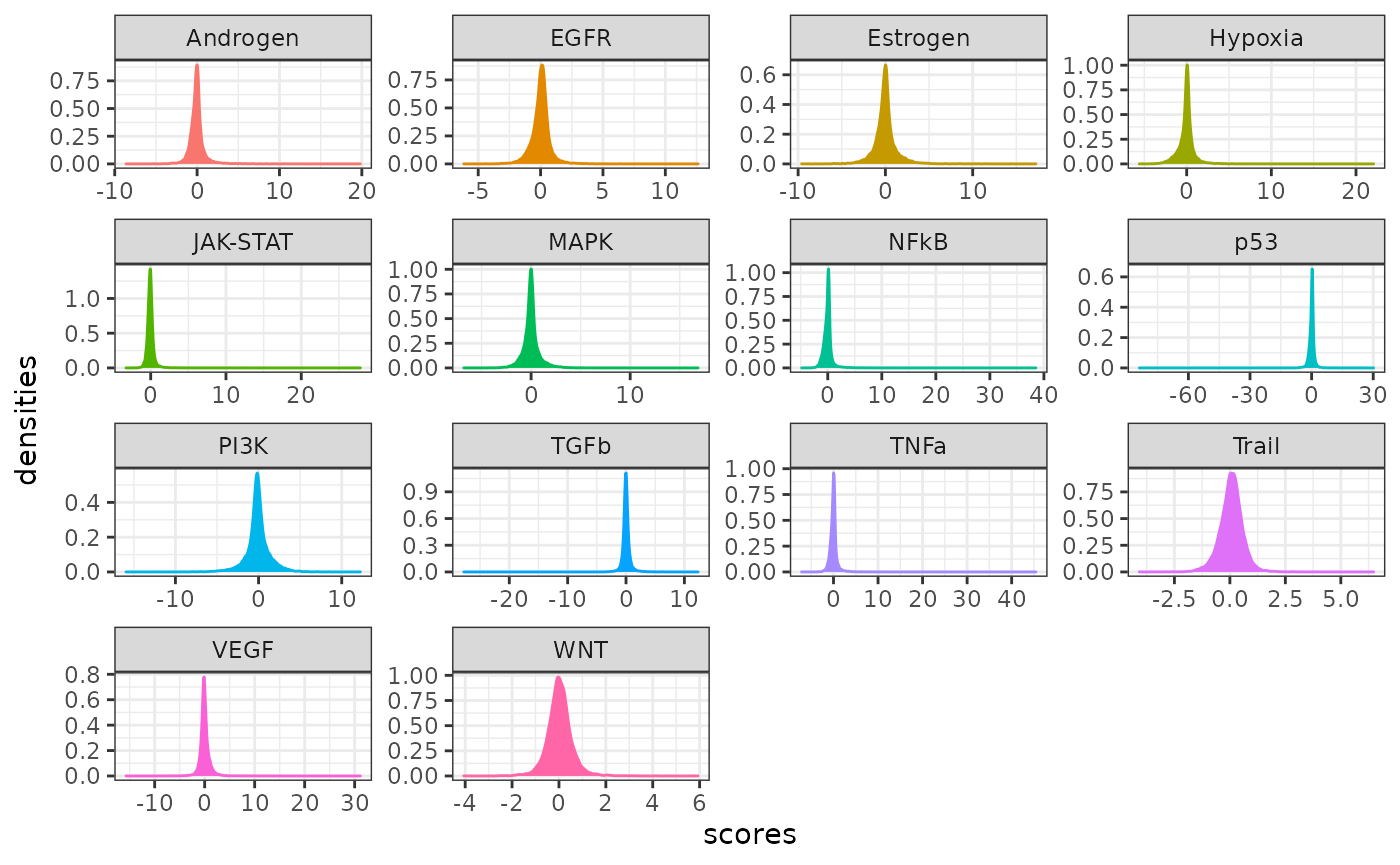
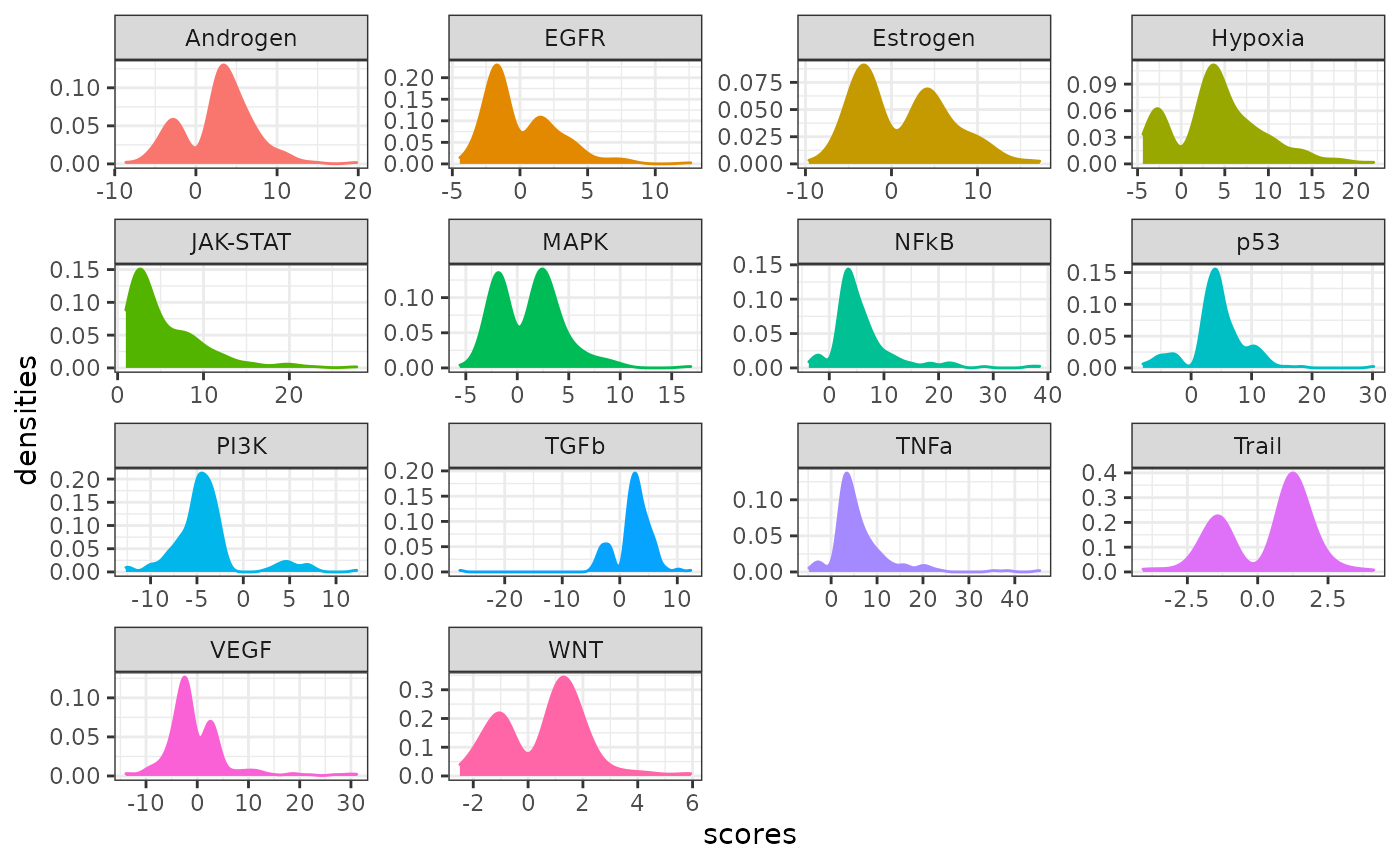
Updated docs

diff --git a/docs/articles/progeny.html b/docs/articles/progeny.html
@@ -133,7 +133,11 @@
 <li>
 <strong>WNT</strong>: regulates organ morphogenesis during development and tissue repair.</li>
 </ul>
-<p>These, coupled with any statistical method, can be used to infer pathway activities from bulk or single-cell transcriptomics. In this vignette we show how to access these signatures and some of their properties. To infer pathway activities, please check out <a href="https://doi.org/10.1093/bioadv/vbac016" class="external-link">decoupleR</a>, available in <a href="https://saezlab.github.io/decoupleR/" class="external-link">R</a> or <a href="https://github.com/saezlab/decoupler-py" class="external-link">python</a>.</p>
+</div>
+<div class="section level2">
+<h2 id="activity-estimation">Activity estimation<a class="anchor" aria-label="anchor" href="#activity-estimation"></a>
+</h2>
+<p>These signatures, coupled with any statistical method, can be used to infer pathway activities from bulk or single-cell transcriptomics. In this vignette we just show how to access these signatures and some of their properties. To infer pathway activities, please check out <a href="https://doi.org/10.1093/bioadv/vbac016" class="external-link">decoupleR</a>, available in <a href="https://saezlab.github.io/decoupleR/" class="external-link">R</a> or <a href="https://github.com/saezlab/decoupler-py" class="external-link">python</a>.</p>
 </div>
 <div class="section level2">
 <h2 id="load">Load<a class="anchor" aria-label="anchor" href="#load"></a>
@@ -159,22 +163,15 @@
 <div class="section level2">
 <h2 id="exploration">Exploration<a class="anchor" aria-label="anchor" href="#exploration"></a>
 </h2>
-<p>We can observe the total number of genes for each pathway:</p>
+<p>We can visualize the distribution of weights for the top 100 genes per pathway:</p>
 <div class="sourceCode" id="cb4"><pre class="downlit sourceCode r">
-<code class="sourceCode R"><span class="va">n_genes</span> <span class="op">&lt;-</span> <span class="va">model</span> <span class="op"><a href="https://magrittr.tidyverse.org/reference/pipe.html" class="external-link">%&gt;%</a></span>
+<code class="sourceCode R"><span class="co"># Get top 100 significant genes per pathway</span>
+<span class="va">model_100</span> <span class="op">&lt;-</span> <span class="va">model</span> <span class="op"><a href="https://magrittr.tidyverse.org/reference/pipe.html" class="external-link">%&gt;%</a></span>
   <span class="fu"><a href="https://dplyr.tidyverse.org/reference/group_by.html" class="external-link">group_by</a></span><span class="op">(</span><span class="va">pathway</span><span class="op">)</span> <span class="op"><a href="https://magrittr.tidyverse.org/reference/pipe.html" class="external-link">%&gt;%</a></span>
-  <span class="fu"><a href="https://dplyr.tidyverse.org/reference/summarise.html" class="external-link">summarize</a></span><span class="op">(</span>n <span class="op">=</span> <span class="fu"><a href="https://dplyr.tidyverse.org/reference/context.html" class="external-link">n</a></span><span class="op">(</span><span class="op">)</span><span class="op">)</span>
+  <span class="fu"><a href="https://dplyr.tidyverse.org/reference/slice.html" class="external-link">slice_min</a></span><span class="op">(</span>order_by <span class="op">=</span> <span class="va">p.value</span>, n <span class="op">=</span> <span class="fl">200</span><span class="op">)</span>
 
-<span class="fu"><a href="https://ggplot2.tidyverse.org/reference/ggplot.html" class="external-link">ggplot</a></span><span class="op">(</span>data<span class="op">=</span><span class="va">n_genes</span>, <span class="fu"><a href="https://ggplot2.tidyverse.org/reference/aes.html" class="external-link">aes</a></span><span class="op">(</span>x<span class="op">=</span><span class="va">pathway</span>, y<span class="op">=</span><span class="va">n</span><span class="op">)</span><span class="op">)</span> <span class="op">+</span>
-  <span class="fu"><a href="https://ggplot2.tidyverse.org/reference/geom_bar.html" class="external-link">geom_bar</a></span><span class="op">(</span>stat<span class="op">=</span><span class="st">"identity"</span><span class="op">)</span> <span class="op">+</span>
-  <span class="fu"><a href="https://ggplot2.tidyverse.org/reference/ggtheme.html" class="external-link">theme_classic</a></span><span class="op">(</span><span class="op">)</span> <span class="op">+</span>
-  <span class="fu"><a href="https://ggplot2.tidyverse.org/reference/theme.html" class="external-link">theme</a></span><span class="op">(</span>axis.text.x <span class="op">=</span> <span class="fu"><a href="https://ggplot2.tidyverse.org/reference/element.html" class="external-link">element_text</a></span><span class="op">(</span>angle <span class="op">=</span> <span class="fl">90</span>, vjust <span class="op">=</span> <span class="fl">0.5</span>, hjust<span class="op">=</span><span class="fl">1</span><span class="op">)</span><span class="op">)</span> <span class="op">+</span>
-  <span class="fu"><a href="https://ggplot2.tidyverse.org/reference/labs.html" class="external-link">xlab</a></span><span class="op">(</span><span class="st">'Number of genes'</span><span class="op">)</span></code></pre></div>
-<p><img src="progeny_files/figure-html/n_genes-1.png" width="700"></p>
-<p>Most pathways cover most of the genome except for Androgen, Estrogen and WNT which have a lower coverage.</p>
-<p>We can also visualize the distribution of weights per pathway:</p>
-<div class="sourceCode" id="cb5"><pre class="downlit sourceCode r">
-<code class="sourceCode R"><span class="fu"><a href="https://ggplot2.tidyverse.org/reference/ggplot.html" class="external-link">ggplot</a></span><span class="op">(</span>data<span class="op">=</span><span class="va">model</span>, <span class="fu"><a href="https://ggplot2.tidyverse.org/reference/aes.html" class="external-link">aes</a></span><span class="op">(</span>x<span class="op">=</span><span class="va">weight</span>, color<span class="op">=</span><span class="va">pathway</span>, fill<span class="op">=</span><span class="va">pathway</span><span class="op">)</span><span class="op">)</span> <span class="op">+</span>
+<span class="co"># Plot</span>
+<span class="fu"><a href="https://ggplot2.tidyverse.org/reference/ggplot.html" class="external-link">ggplot</a></span><span class="op">(</span>data<span class="op">=</span><span class="va">model_100</span>, <span class="fu"><a href="https://ggplot2.tidyverse.org/reference/aes.html" class="external-link">aes</a></span><span class="op">(</span>x<span class="op">=</span><span class="va">weight</span>, color<span class="op">=</span><span class="va">pathway</span>, fill<span class="op">=</span><span class="va">pathway</span><span class="op">)</span><span class="op">)</span> <span class="op">+</span>
   <span class="fu"><a href="https://ggplot2.tidyverse.org/reference/geom_density.html" class="external-link">geom_density</a></span><span class="op">(</span><span class="op">)</span> <span class="op">+</span>
   <span class="fu"><a href="https://ggplot2.tidyverse.org/reference/theme.html" class="external-link">theme</a></span><span class="op">(</span>text <span class="op">=</span> <span class="fu"><a href="https://ggplot2.tidyverse.org/reference/element.html" class="external-link">element_text</a></span><span class="op">(</span>size<span class="op">=</span><span class="fl">12</span><span class="op">)</span><span class="op">)</span> <span class="op">+</span>
   <span class="fu"><a href="https://ggplot2.tidyverse.org/reference/facet_wrap.html" class="external-link">facet_wrap</a></span><span class="op">(</span><span class="op">~</span> <span class="va">pathway</span>, scales<span class="op">=</span><span class="st">'free'</span><span class="op">)</span> <span class="op">+</span>
@@ -183,7 +180,7 @@
   <span class="fu"><a href="https://ggplot2.tidyverse.org/reference/ggtheme.html" class="external-link">theme_bw</a></span><span class="op">(</span><span class="op">)</span> <span class="op">+</span>
   <span class="fu"><a href="https://ggplot2.tidyverse.org/reference/theme.html" class="external-link">theme</a></span><span class="op">(</span>legend.position <span class="op">=</span> <span class="st">"none"</span><span class="op">)</span></code></pre></div>
 <p><img src="progeny_files/figure-html/w_dist-1.png" width="700"></p>
-<p>Each pathway show a different distribution of weights. Some up-regulate more genes than down-regulate, like NFkB or TNFa, while others do the opposite, like TGFb or p53.</p>
+<p>Each pathway show a different distribution of weights. Some up-regulate more genes than down-regulate, like NFkB or TNFa, while others do the opposite, like PI3K or VEGF.</p>
 </div>
   </div>
 

diff --git a/docs/reference/progenyPerm.html b/docs/reference/progenyPerm.html
@@ -130,23 +130,23 @@ distribution list (a null distribution is generated for each sample/contrast).</
 <span class="r-in"><span class="co"># calculate pathway activities</span></span>
 <span class="r-in"><span class="fu"><a href="progeny.html">progeny</a></span><span class="op">(</span><span class="va">gene_expression</span>, scale<span class="op">=</span><span class="cn">TRUE</span>, organism<span class="op">=</span><span class="st">"Human"</span>, top<span class="op">=</span><span class="fl">100</span>, perm<span class="op">=</span><span class="fl">10000</span><span class="op">)</span></span>
 <span class="r-out co"><span class="r-pr">#&gt;</span>            Androgen   EGFR Estrogen Hypoxia JAK.STAT   MAPK    NFkB    p53</span>
-<span class="r-out co"><span class="r-pr">#&gt;</span> SRR1039508  -0.8334 0.1956  -0.3546  0.9998   0.7594 0.4052 -0.5464 0.9274</span>
-<span class="r-out co"><span class="r-pr">#&gt;</span> SRR1039509  -0.5060 0.0586  -0.6494  0.9996   0.4914 0.3064 -0.4338 0.8756</span>
-<span class="r-out co"><span class="r-pr">#&gt;</span> SRR1039512  -0.7912 0.1992  -0.3808  0.9992   0.7074 0.4062 -0.4424 0.9196</span>
-<span class="r-out co"><span class="r-pr">#&gt;</span> SRR1039513  -0.4384 0.0818  -0.6776  0.9998   0.6726 0.4498 -0.4630 0.7894</span>
-<span class="r-out co"><span class="r-pr">#&gt;</span> SRR1039516  -0.7638 0.2660  -0.3064  0.9996   0.6110 0.4238 -0.3180 0.9242</span>
-<span class="r-out co"><span class="r-pr">#&gt;</span> SRR1039517  -0.5078 0.5638  -0.6678  1.0000   0.4612 0.7314 -0.3942 0.8178</span>
-<span class="r-out co"><span class="r-pr">#&gt;</span> SRR1039520  -0.8074 0.3282  -0.4096  0.9996   0.5994 0.5644 -0.6322 0.9018</span>
-<span class="r-out co"><span class="r-pr">#&gt;</span> SRR1039521  -0.3350 0.1256  -0.6622  0.9998   0.4906 0.5612 -0.6472 0.7880</span>
+<span class="r-out co"><span class="r-pr">#&gt;</span> SRR1039508  -0.8412 0.2064  -0.3442  0.9994   0.7700 0.4070 -0.5382 0.9232</span>
+<span class="r-out co"><span class="r-pr">#&gt;</span> SRR1039509  -0.4930 0.0374  -0.6328  0.9996   0.4822 0.2972 -0.4338 0.8818</span>
+<span class="r-out co"><span class="r-pr">#&gt;</span> SRR1039512  -0.8022 0.1886  -0.3920  0.9994   0.7106 0.3902 -0.4434 0.9222</span>
+<span class="r-out co"><span class="r-pr">#&gt;</span> SRR1039513  -0.4356 0.0878  -0.6798  0.9996   0.6732 0.4426 -0.4468 0.7784</span>
+<span class="r-out co"><span class="r-pr">#&gt;</span> SRR1039516  -0.7758 0.2784  -0.3126  0.9994   0.6344 0.4304 -0.3212 0.9114</span>
+<span class="r-out co"><span class="r-pr">#&gt;</span> SRR1039517  -0.5188 0.5700  -0.6758  1.0000   0.4632 0.7394 -0.3818 0.8082</span>
+<span class="r-out co"><span class="r-pr">#&gt;</span> SRR1039520  -0.8124 0.3226  -0.4110  0.9996   0.6066 0.5554 -0.6348 0.9078</span>
+<span class="r-out co"><span class="r-pr">#&gt;</span> SRR1039521  -0.3458 0.1280  -0.6520  1.0000   0.4836 0.5584 -0.6270 0.7832</span>
 <span class="r-out co"><span class="r-pr">#&gt;</span>               PI3K   TGFb    TNFa   Trail    VEGF     WNT</span>
-<span class="r-out co"><span class="r-pr">#&gt;</span> SRR1039508  0.1648 0.5486 -0.5916 -0.3528  0.0700 -0.1190</span>
-<span class="r-out co"><span class="r-pr">#&gt;</span> SRR1039509  0.0796 0.7670 -0.4548 -0.2948  0.0680 -0.1712</span>
-<span class="r-out co"><span class="r-pr">#&gt;</span> SRR1039512  0.1260 0.6938 -0.4778 -0.3306  0.0654 -0.1716</span>
-<span class="r-out co"><span class="r-pr">#&gt;</span> SRR1039513 -0.0606 0.8100 -0.4980 -0.2508  0.0820 -0.2888</span>
-<span class="r-out co"><span class="r-pr">#&gt;</span> SRR1039516  0.1556 0.6884 -0.3660 -0.3342  0.2818 -0.3318</span>
-<span class="r-out co"><span class="r-pr">#&gt;</span> SRR1039517  0.3724 0.8588 -0.4468 -0.3560  0.2458 -0.4022</span>
-<span class="r-out co"><span class="r-pr">#&gt;</span> SRR1039520  0.1626 0.7036 -0.6724 -0.2702 -0.0866 -0.1042</span>
-<span class="r-out co"><span class="r-pr">#&gt;</span> SRR1039521  0.0294 0.8306 -0.6630 -0.2322 -0.0662 -0.3124</span>
+<span class="r-out co"><span class="r-pr">#&gt;</span> SRR1039508  0.1698 0.5482 -0.5788 -0.3624  0.0620 -0.1226</span>
+<span class="r-out co"><span class="r-pr">#&gt;</span> SRR1039509  0.0772 0.7700 -0.4538 -0.2914  0.0610 -0.1614</span>
+<span class="r-out co"><span class="r-pr">#&gt;</span> SRR1039512  0.1372 0.6962 -0.4806 -0.3280  0.0770 -0.1552</span>
+<span class="r-out co"><span class="r-pr">#&gt;</span> SRR1039513 -0.0732 0.8192 -0.4734 -0.2546  0.0914 -0.2920</span>
+<span class="r-out co"><span class="r-pr">#&gt;</span> SRR1039516  0.1538 0.6814 -0.3700 -0.3474  0.2816 -0.3176</span>
+<span class="r-out co"><span class="r-pr">#&gt;</span> SRR1039517  0.3682 0.8648 -0.4320 -0.3690  0.2496 -0.4030</span>
+<span class="r-out co"><span class="r-pr">#&gt;</span> SRR1039520  0.1616 0.6904 -0.6738 -0.2770 -0.0986 -0.1266</span>
+<span class="r-out co"><span class="r-pr">#&gt;</span> SRR1039521  0.0306 0.8302 -0.6552 -0.2330 -0.0618 -0.3282</span>
 </code></pre></div>
     </div>
   </div>
